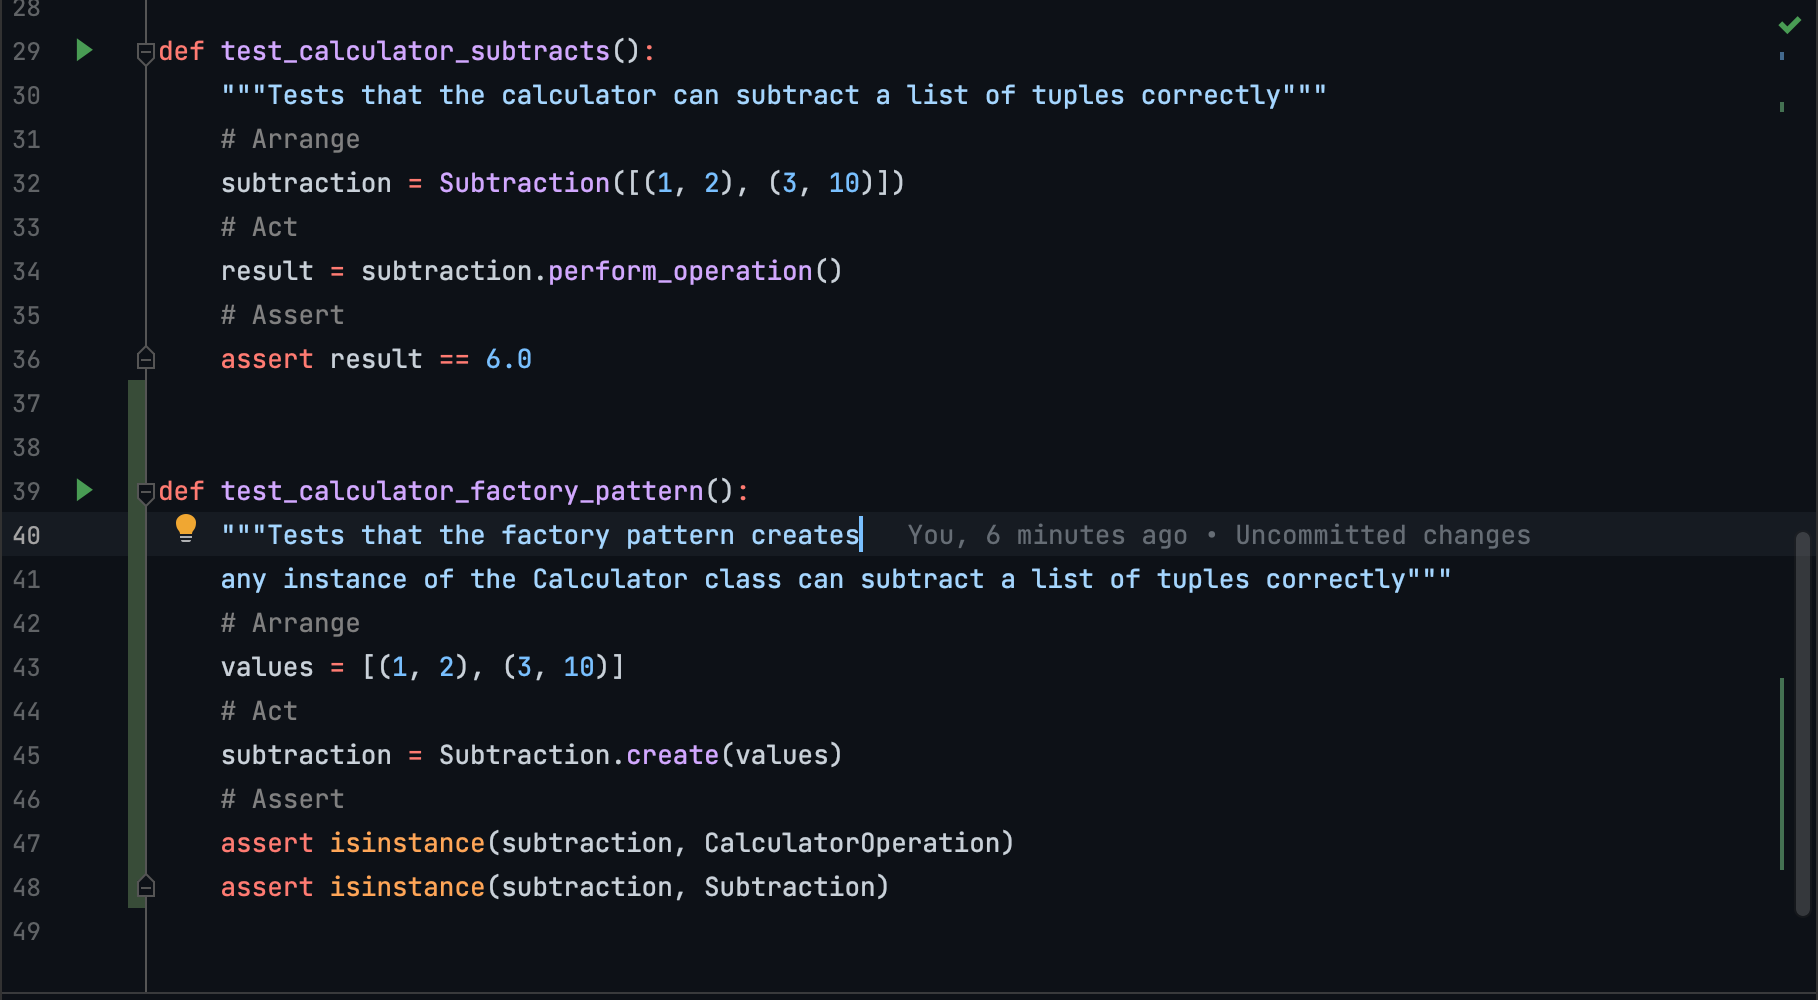
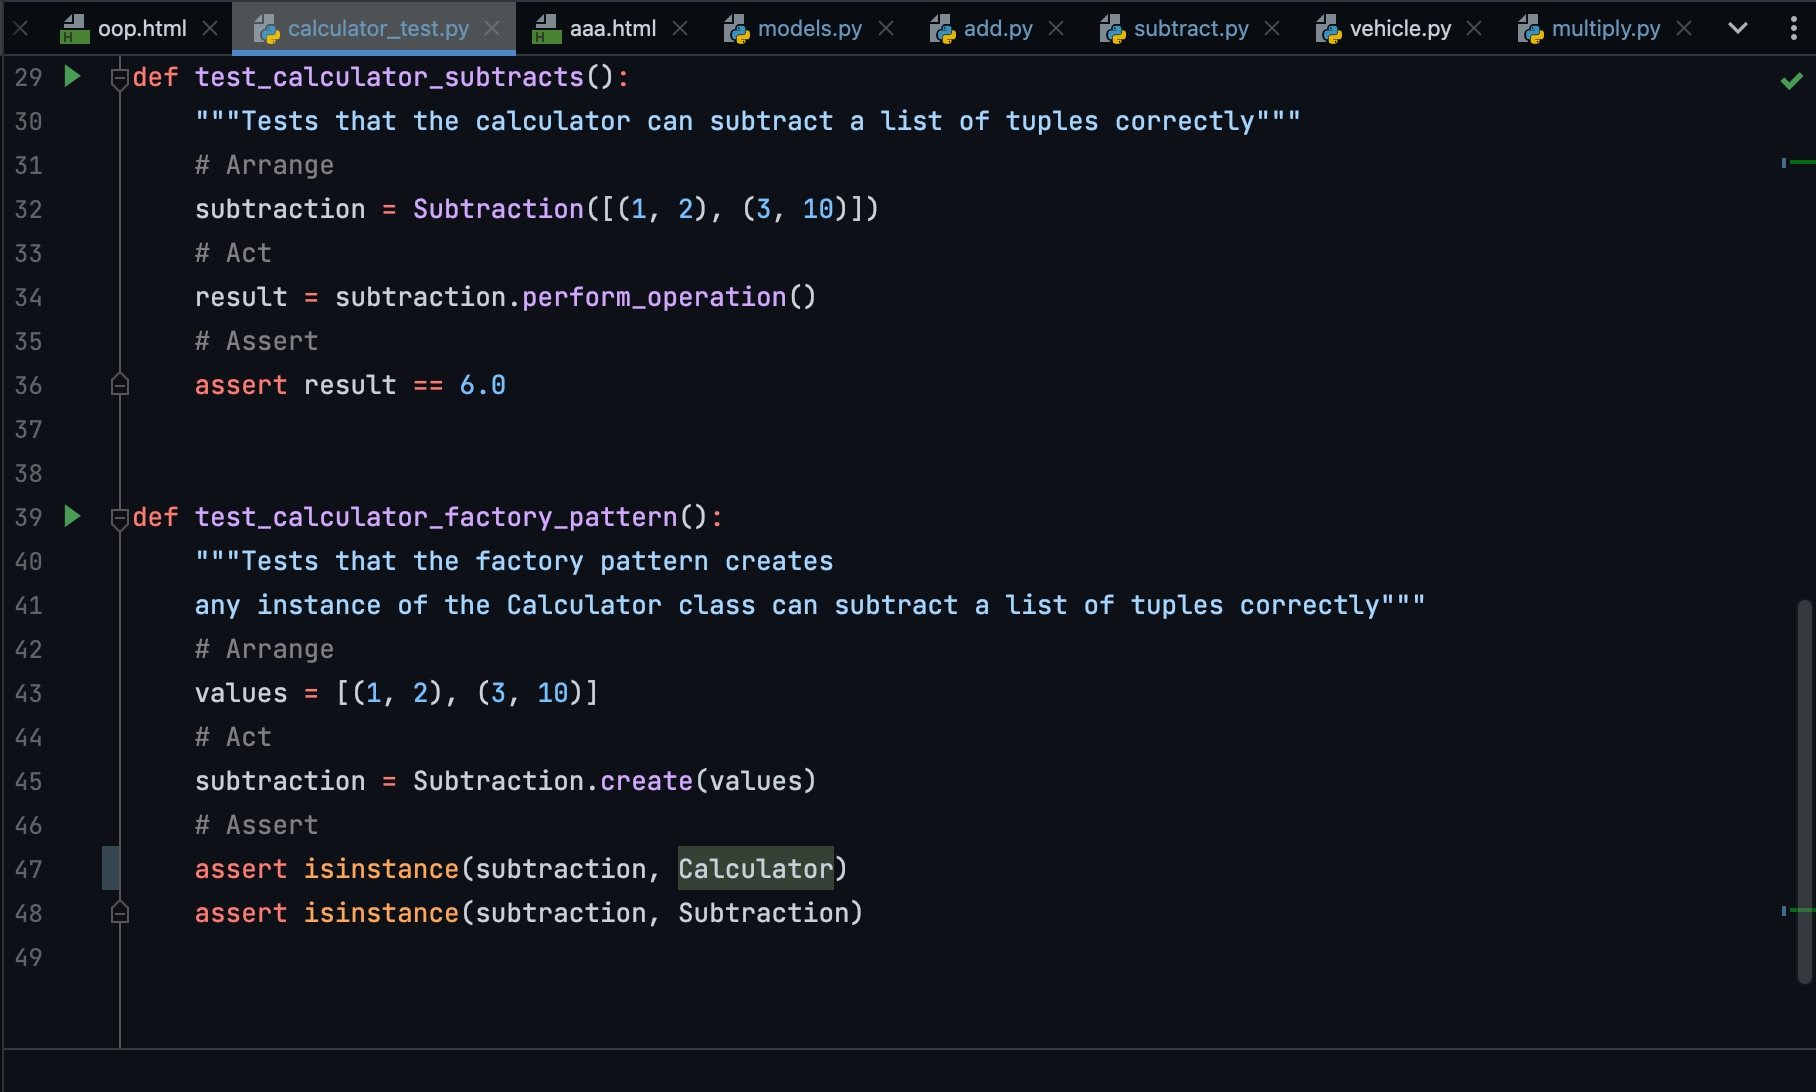
Clean-ups for calculator project content

diff --git a/app/templates/solid.html b/app/templates/solid.html
@@ -98,7 +98,7 @@
                         </blockquote>
                         This is demonstrated within our
                         Calculator example shown in the above figures, where we have three subclasses which all extend
-                        from CalculatorOperation
+                        from Calculator
                         (i.e. abstract base class),
                         which are Addition, Subtraction, and Multiplication. All these subclasses have only single
                         responsibility
@@ -123,7 +123,7 @@
                             </footer>
                         </blockquote>
                         In our Calculator example shown above, we provide an abstract base class called
-                        CalculatorOperation, which
+                        Calculator, which
                         is initialized with a set of values.
                         From this, we provide a method called <strong>perform_operation</strong>, which is an abstract
                         method, whose functionality is defined by its subclasses.
@@ -149,7 +149,7 @@
                         </blockquote>
                         In our Calculator example, we see that <strong>perform_operation</strong> is an abstract method,
                         which means that it <strong>must</strong> be implemented by all of it's subclasses.
-                        Therefore, if we had a single method that takes a CalculatorOperation has an argument, then any
+                        Therefore, if we had a single method that takes a Calculator has an argument, then any
                         of its subclasses (i.e. Addition, Subtraction, or Multiplication) should all work as expected
                         since it would call its implementation of the
                         <strong>perform_operation</strong> method. This is also known as method overriding.
@@ -221,7 +221,7 @@
                 allows you to create any instance of a derived class. In the example, shown above, we can create a
                 Subtraction object in two ways.
                 The first way is to make a standard Python object, the second way is to use the <strong>create</strong>
-                method defined in the CalculatorOperation
+                method defined in the Calculator
                 class, which is a classmethod, and therefore passes an instance of the class, and then creates an object
                 that type.
             </div>

diff --git a/app/templates/terms.html b/app/templates/terms.html
@@ -138,7 +138,6 @@
                         properties,
                         each class has its own set of properties and methods without sharing state between other objects
                         of the same class.
-                        none of the
                     </dd>
                     <dt class="col-sm-3">Instance Property/Method</dt>
                     <dd class="col-sm-9 p-2">
@@ -201,7 +200,7 @@
                     </dd>
                     <dt class="col-sm-3">Type Casting</dt>
                     <dd class="col-sm-9 p-2">
-                        Type casting is defined as "...specify a type on to a variable". This is typically done with
+                        Type casting is defined as "...specify a type on to a variable" (https://www.w3schools.com/python/python_casting.asp). This is typically done with
                         Python objects
                         such as:
                         <ul class="px-5">
@@ -209,7 +208,7 @@
                             <li>str()</li>
                             <li>float()</li>
                         </ul>
-                        For example to convert the number one into a float, we can simply do float(1), which would yield
+                        For example to convert the number one into a float, we can simply do <em>float(1)</em>, which would yield
                         the result of 1.0.
                     </dd>
                     <dt class="col-sm-3">Unit Test</dt>

diff --git a/app/templates/oop.html b/app/templates/oop.html
@@ -171,7 +171,7 @@
             <p class="h3">Example: Calculator</p>
             <hr class="bg-danger border-2 border-top border-danger" style="height:2px; width:50%; border-width:0">
             <dl>
-                <dt id="abstraction" class="col-sm-3">Abstraction</dt>
+                <dt id="abstraction" class="col-sm-3">Abstraction/Inheritance</dt>
                 <dd class="col-sm-9 p-2">
                     <p class="fw-normal p-3">
                         <img src="static/images/CalculatorBaseOne.png" width="700" height="500" class="rounded"
@@ -198,6 +198,13 @@
                     </p>
                     <p class="fw-normal p-3">
                         <img src="static/images/Addition.png" width="700" height="500" class="rounded"
+                             alt="...">
+                    </p>
+                </dd>
+                <dt class="col-sm-3 text-truncate">Polymorphism</dt>
+                <dd class="col-sm-9 p-2">
+                    <p class="fw-normal p-3">
+                        <img src="static/images/CalculatorDesignPattern.png" width="700" height="500" class="rounded"
                              alt="...">
                     </p>
                 </dd>

diff --git a/tests/calculator_test.py b/tests/calculator_test.py
@@ -1,7 +1,7 @@
 """This makes the calculator operation unit test setup"""
 
 from app.calculator.add import Addition
-from app.calculator.models import CalculatorOperation
+from app.calculator.models import Calculator
 from app.calculator.multiply import Multiplication
 from app.calculator.subtract import Subtraction
 
@@ -44,5 +44,5 @@ def test_calculator_factory_pattern():
     # Act
     subtraction = Subtraction.create(values)
     # Assert
-    assert isinstance(subtraction, CalculatorOperation)
+    assert isinstance(subtraction, Calculator)
     assert isinstance(subtraction, Subtraction)

diff --git a/app/calculator/multiply.py b/app/calculator/multiply.py
@@ -1,7 +1,7 @@
-from app.calculator.models import CalculatorOperation
+from app.calculator.models import Calculator
 
 
-class Multiplication(CalculatorOperation):
+class Multiplication(Calculator):
 
     def perform_operation(self) -> float:
         result = 1.0

diff --git a/app/calculator/subtract.py b/app/calculator/subtract.py
@@ -1,7 +1,7 @@
-from app.calculator.models import CalculatorOperation
+from app.calculator.models import Calculator
 
 
-class Subtraction(CalculatorOperation):
+class Subtraction(Calculator):
 
     def perform_operation(self) -> float:
         result = 0.0

diff --git a/app/calculator/add.py b/app/calculator/add.py
@@ -1,7 +1,7 @@
-from app.calculator.models import CalculatorOperation
+from app.calculator.models import Calculator
 
 
-class Addition(CalculatorOperation):
+class Addition(Calculator):
 
     def perform_operation(self) -> float:
         result = 0.0

diff --git a/app/calculator/models.py b/app/calculator/models.py
@@ -2,7 +2,7 @@ from abc import ABC, abstractmethod
 from typing import List, Tuple
 
 
-class CalculatorOperation(ABC):
+class Calculator(ABC):
 
     def __init__(self, values: List[Tuple[int, int]]):
         """ constructor method"""
